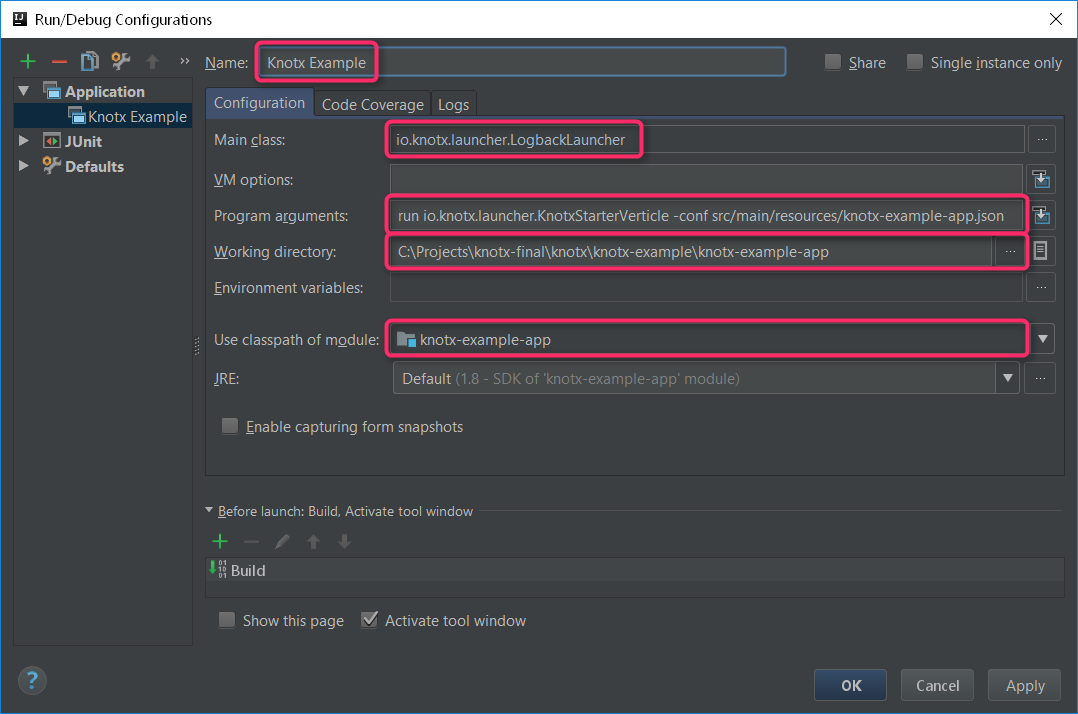
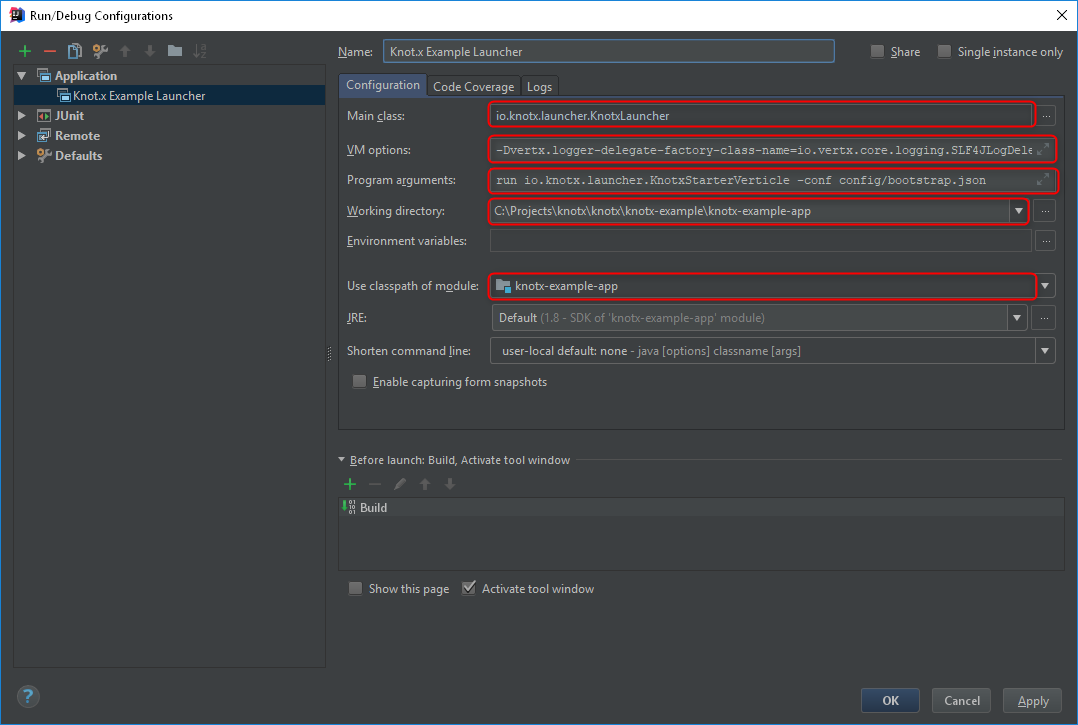
Debugging.md update.

diff --git a/documentation/src/main/wiki/Debugging.md b/documentation/src/main/wiki/Debugging.md
@@ -7,23 +7,24 @@ To build it you also need Maven (version 3.3.1 or higher).
 Intellij IDE
 
 ## How to set up Knot.x debugging in Intellij IDE
-Assuming you have Knot.x project opened in Intellij, you can set up Run/Debug Application configuration to be able to run or debug Demo or 
+Assuming you have Knot.x project opened in Intellij, you can set up Run/Debug Application configuration to be able to run or debug Demo/Example or 
 Standalone Knot.x application directly in your IDE.
 
 1. Go to Run/Debug Configurations in IntelliJ
 2. Add new Application Configuration
 
 [[assets/knotx-debugging-new-config.png|alt=Knot.x Debugging new config]]
+
 3. Set name of the configuration
-4. Pick main class to be io.knotx.launcher.KnotxLauncher
-5. In Program Arguments specify that KnotxStarterVerticle should be run with the `-conf` parameter pointing to the configuration you want to run (e.g. Example app)
+4. Pick main class to be `io.knotx.launcher.KnotxLauncher`
+5. Set VM options to `-Dvertx.logger-delegate-factory-class-name=io.vertx.core.logging.SLF4JLogDelegateFactory`
+6. In Program Arguments specify that `KnotxStarterVerticle` should be run with the `-conf` parameter pointing to the JSON configuration you want to run (e.g. Example app)
 ```
-run io.knotx.launcher.KnotxStarterVerticle -conf src/main/resources/knotx-example-app.json
+run io.knotx.launcher.KnotxStarterVerticle -conf config/bootstrap.json
 ```
-6. Set **Working directory** to the module where your json config exists (e.g. knotx-example-app)
-7. Set **Use classpath of module** by selecting the module in which you have your configuration (e.g. knotx-example-app)
-8. Optionally, in VM options you can specify system properties if you want to override configuration or set memory properly of this configuration.
-9. Finally, you can now Run or Debug this configuration and play with Knot.x as usuall.
+7. Set **Working directory** to the module where your json config exists (e.g. knotx-example-app)
+8. Set **Use classpath of module** by selecting the module in which you have your configuration (e.g. knotx-example-app)
+9. Finally, you can now Run or Debug this configuration and play with Knot.x as usual.
 
 [[assets/knotx-debugging-config.png|alt=Knot.x Debugging config]]
 
